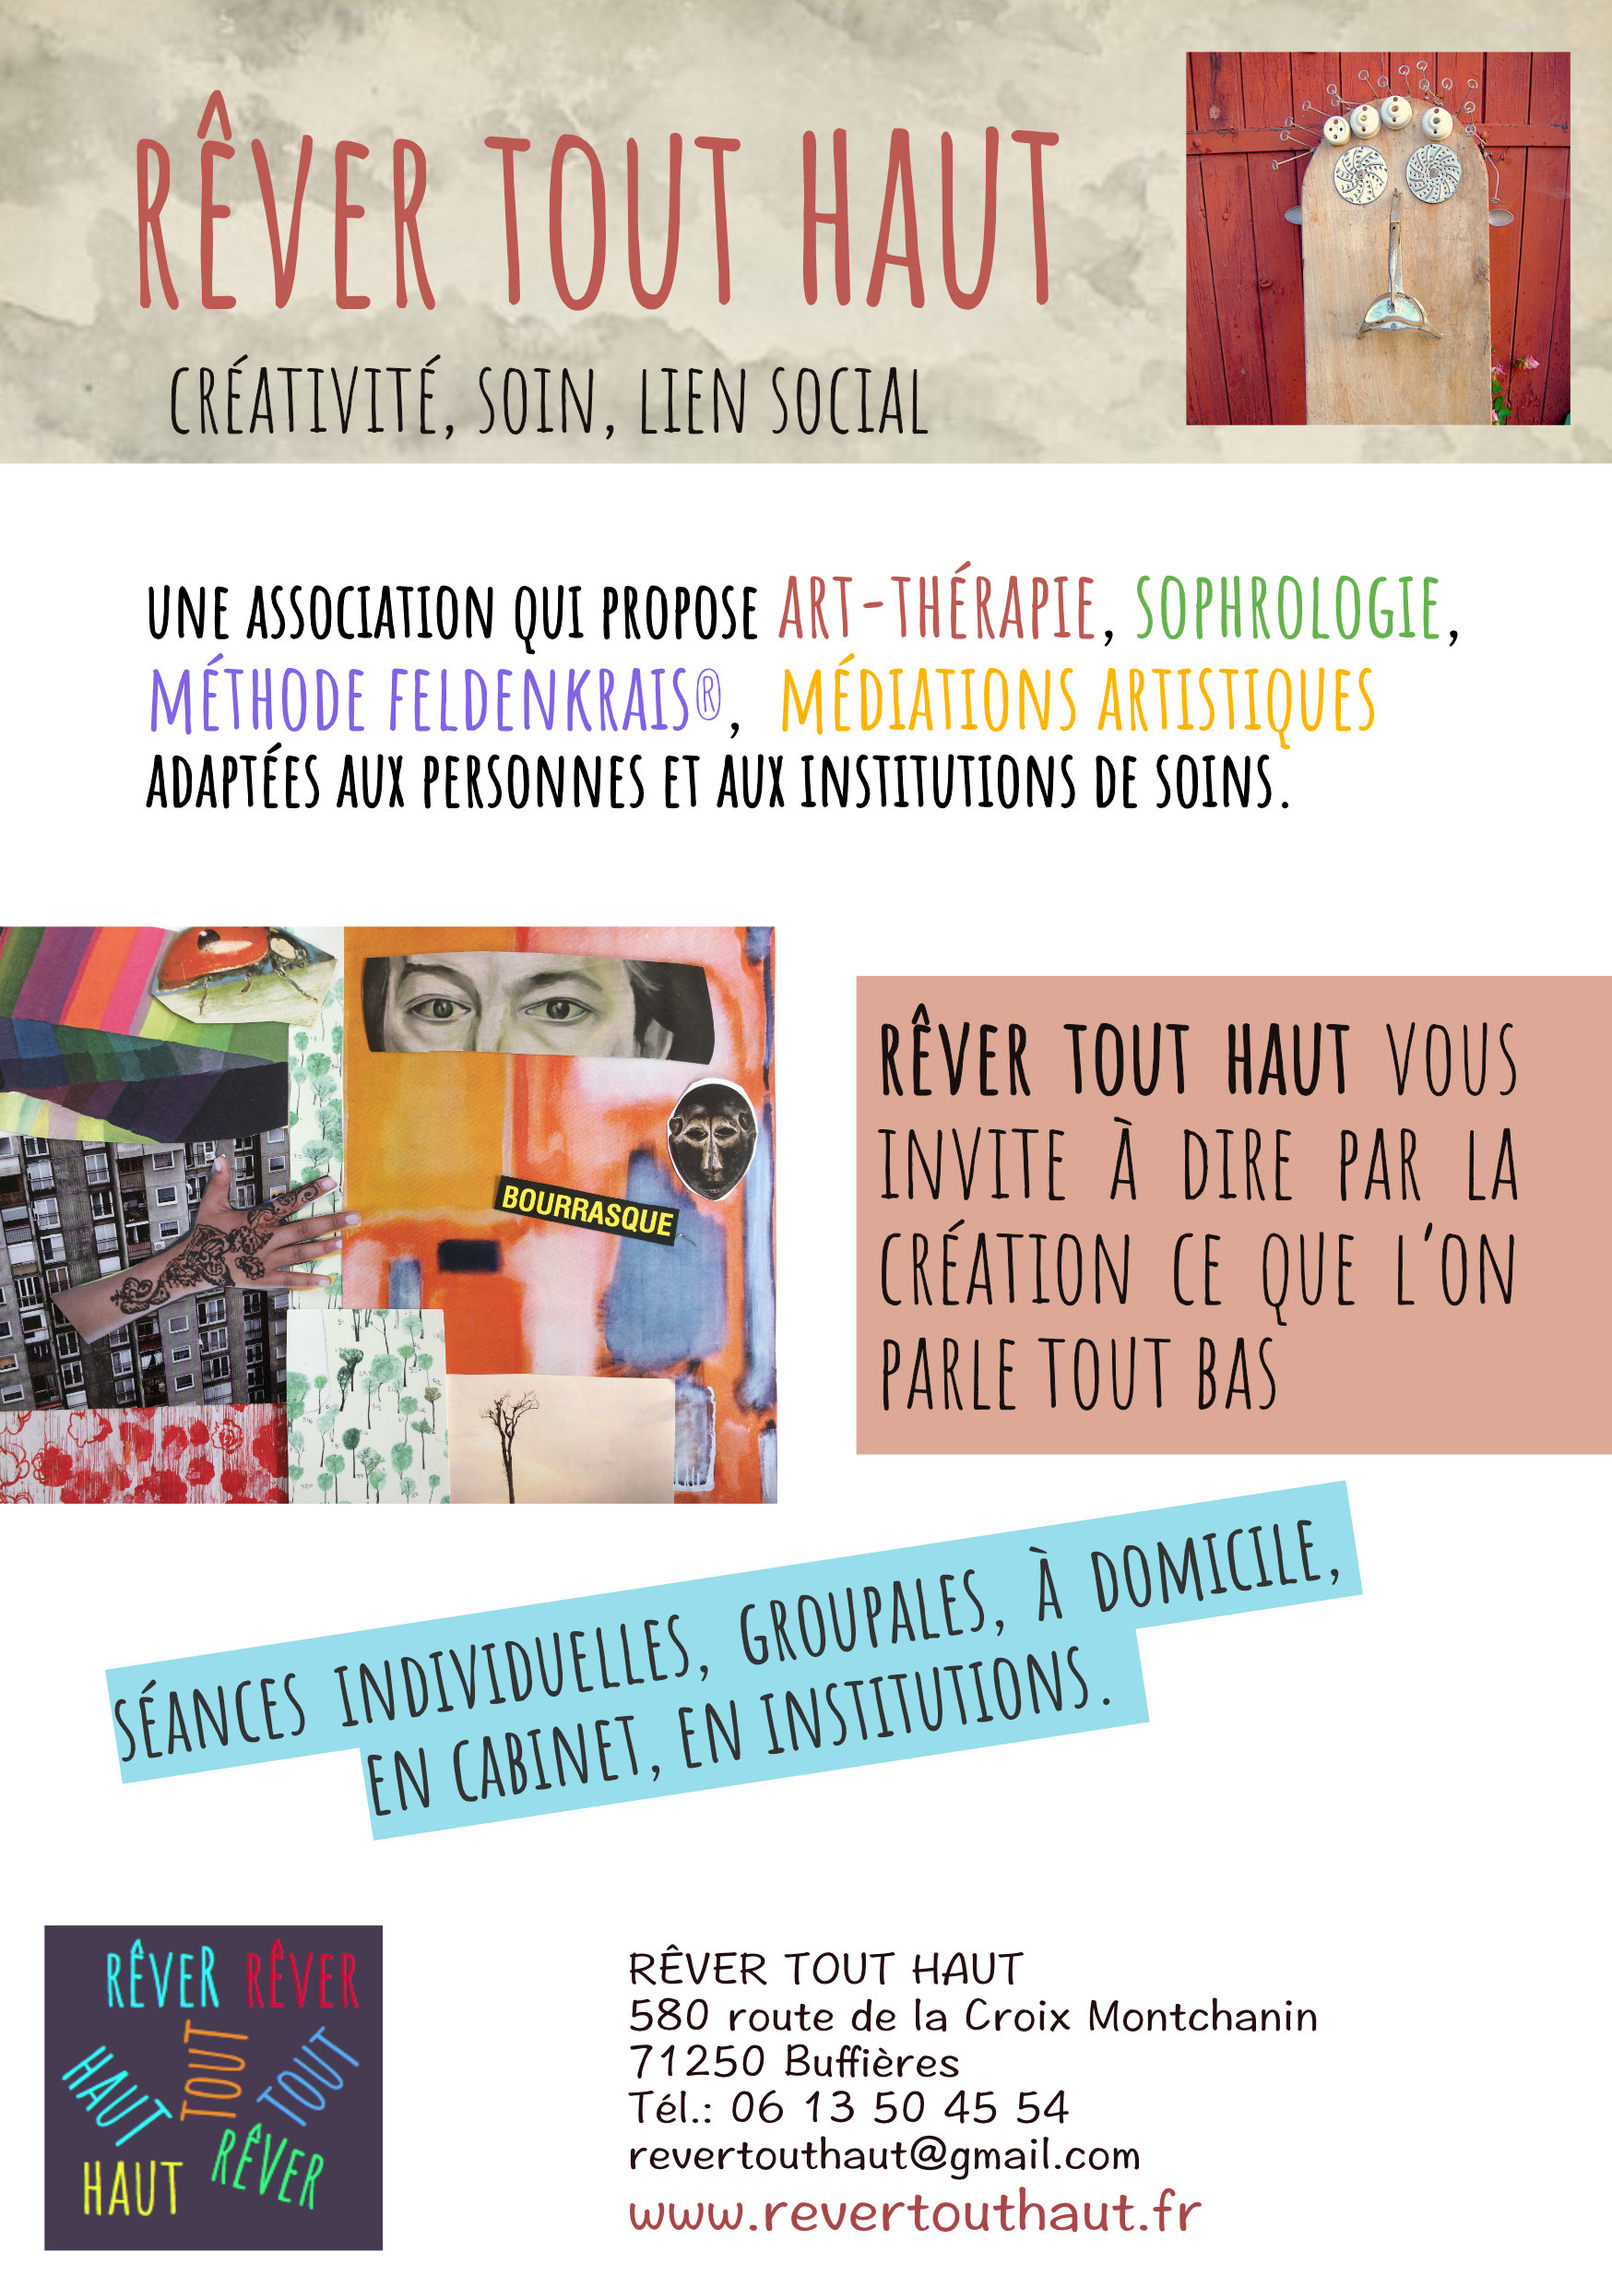
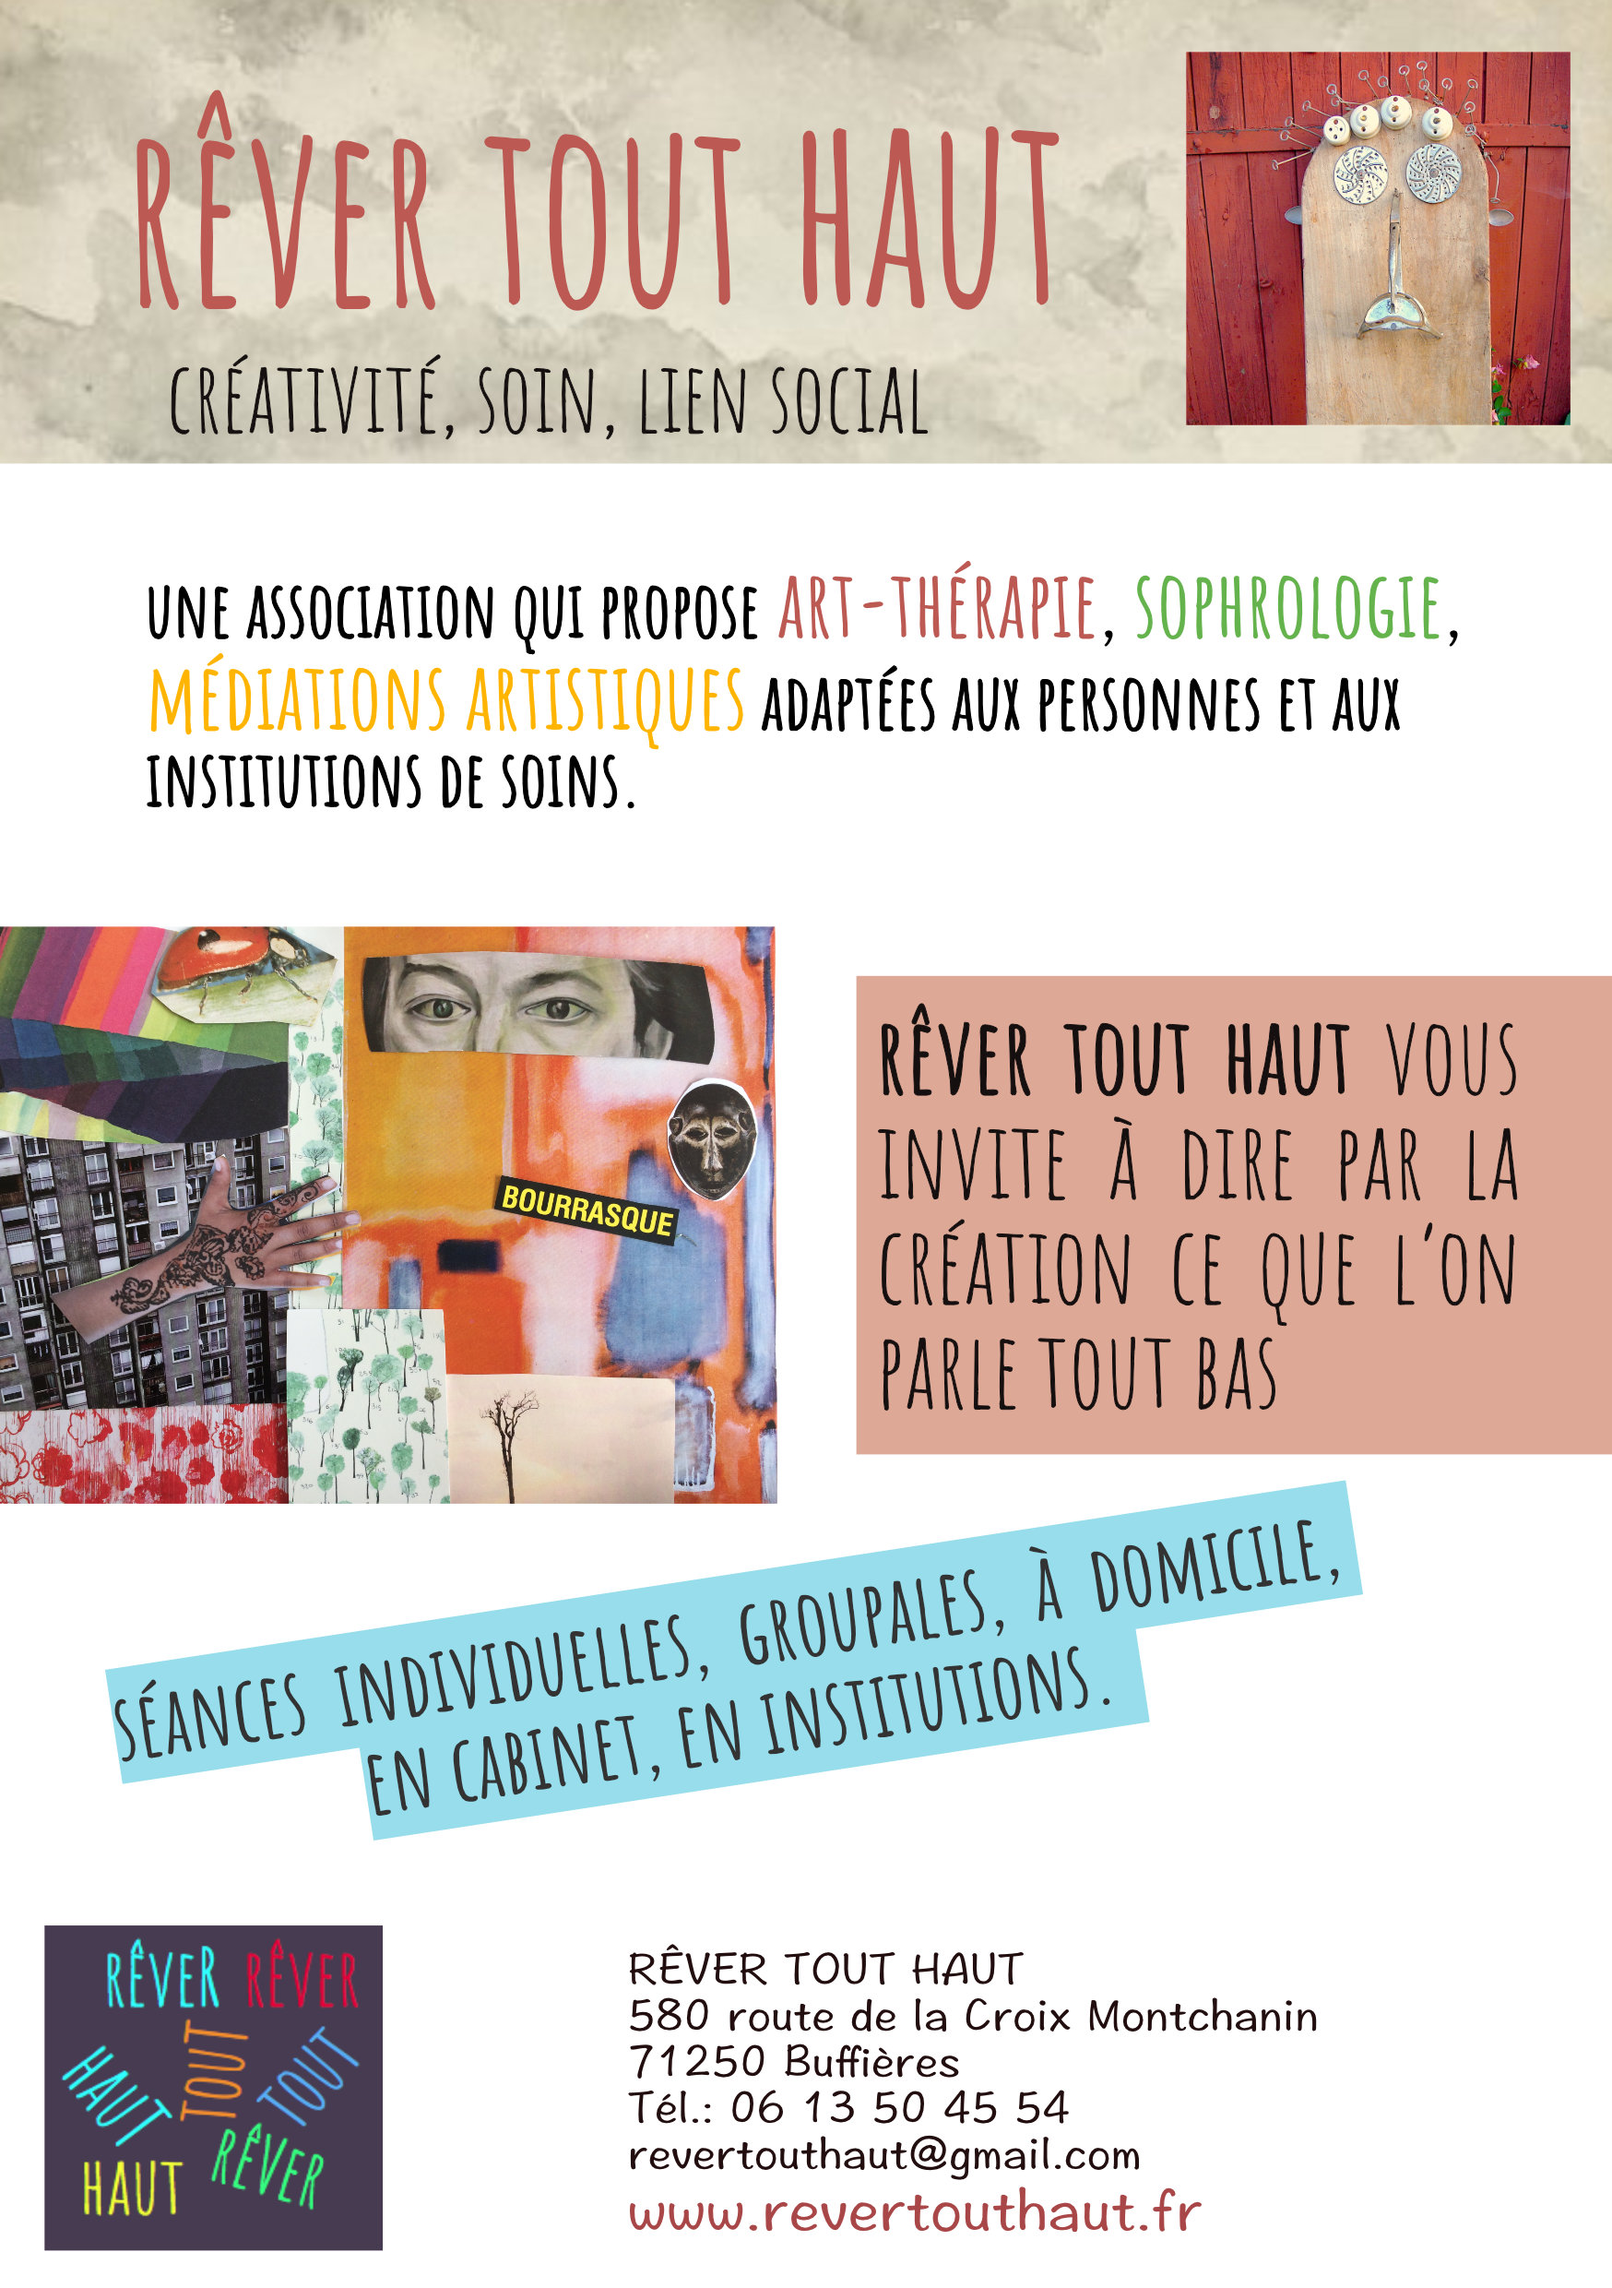
No more feldenkrais. New flyer

Changed region(s): [[0.0927, 0.2794, 0.865, 0.3726]]

diff --git a/_includes/nav-links2.html b/_includes/nav-links2.html
@@ -2,7 +2,6 @@
 
 <li class="color03"><a href="/art-therapie">L'art-thérapie</a></li>
 <li class="color02"><a href="/sophrologie">Sophrologie</a></li>
-<li class="color04"><a href="/feldenkrais">Feldenkrais</a></li>
 <li class="invisible">m</li>
 <li class="grouper">Ateliers&nbsp;:</li>
 <li class="color05 indent"><a href="/ateliers-artistiques">artistiques</a></li>

diff --git a/index.md b/index.md
@@ -1,8 +1,8 @@
 ---
 layout: two-column-banner
-title: Art-thérapie, sophrologie, Feldenkrais, en Saône et Loire (71)
-summary: Rêver tout haut est une association d’art-thérapeutes, sophrologues, praticiens Feldenkrais qui propose des ateliers créatifs, des médiations artistiques et thérapeutiques et des spectacles vivants, adaptés aux personnes et aux institutions, et qui oeuvre à domicile, en cabinet ou en structure médicale et sociale.
-tags: [art-thérapeute,sophrologue,praticien-feldenkrais,médiations-artistiques]
+title: Art-thérapie et sophrologie en Saône et Loire (71)
+summary: Rêver tout haut est une association d’art-thérapeutes, sophrologues, et d'artistes qui propose des ateliers créatifs, des médiations artistiques et thérapeutiques et des spectacles vivants, adaptés aux personnes et aux institutions, et qui oeuvre à domicile, en cabinet ou en structure médicale et sociale.
+tags: [art-thérapeute,sophrologue,médiations-artistiques]
 ---
 <!-- # Créativité, soin, lien social et spectacles vivants
 {:.top-line} -->
@@ -11,7 +11,7 @@ tags: [art-thérapeute,sophrologue,praticien-feldenkrais,médiations-artistiques
 
 
 
-*Rêver tout haut*{:.rever-typog}  est une association d’art-thérapeutes, de sophrologues, et de praticiens Feldenkrais diplomé.es, et d’artistes, installé.es en Saône et Loire, qui propose des médiations artistiques et/ou thérapeutiques adaptées à chacune et chacun : enfants, adolescents, adultes, personnes âgées, toute personne désireuse d’être accompagnée dans un cheminement créatif, ou personnes en difficulté, en situation de handicap, souffrant d’une pathologie, nécessitant un accompagnement créatif et/ou thérapeutique en accord avec ses besoins ou son parcours de soins. *Rêver tout haut*{:.rever-typog} conçoit des médiations et des pratiques autonomes les unes des autres et aussi en continuité et en lien.  
+*Rêver tout haut*{:.rever-typog}  est une association d’art-thérapeutes, de sophrologues, et d’artistes, installé.es en Saône et Loire, qui propose des médiations artistiques et/ou thérapeutiques adaptées à chacune et chacun : enfants, adolescents, adultes, personnes âgées, toute personne désireuse d’être accompagnée dans un cheminement créatif, ou personnes en difficulté, en situation de handicap, souffrant d’une pathologie, nécessitant un accompagnement créatif et/ou thérapeutique en accord avec ses besoins ou son parcours de soins. *Rêver tout haut*{:.rever-typog} conçoit des médiations et des pratiques autonomes les unes des autres et aussi en continuité et en lien.  
 
 *rêver tout haut*{:.rever-typog} vous invite à  dire par la création ce que l’on parle tout bas
 {:.rever-list2}  
@@ -39,7 +39,7 @@ tags: [art-thérapeute,sophrologue,praticien-feldenkrais,médiations-artistiques
 <div class="pairs">
 <div class="five">
 <figure>
-<img src="http://res.cloudinary.com/dnxcesebo/image/upload/c_scale,h_600/v1528881891/rever-flyer-internet-high_uffrwl.jpg">
+<img src="https://res.cloudinary.com/dnxcesebo/image/upload/c_scale,h_600/v1545398279/rever-flyer-internet-border_f3cijy.jpg">
 <figcaption><a href="/rever-flyer-internet-high.jpg">télécharger le flyer</a></figcaption>
 </figure>
 </div>

diff --git a/ateliers-a-domicile.md b/ateliers-a-domicile.md
@@ -5,13 +5,12 @@ summary: Pour permettre aux personnes de recréer du lien social, de se réinscr
 ---
 # Ateliers à domicile
 
-*Rêver tout haut*{:.rever-typog} se déplace et propose <img src="http://res.cloudinary.com/dnxcesebo/image/upload/c_scale,h_400,r_10/v1527692998/lapin_rape_wirg0x.jpg" class="img-right"/> d’aller à votre rencontre chez vous. Prenez contact avec nous pour élaborer ensemble le rythme de séances qui vous convient le mieux et pour organiser une première rencontre. Sous la forme d’un atelier hebdomadaire ou pluri – hebdomadaire, nous proposons un parcours à adapter à chacun, avec plusieurs pratiques : Art-thérapie, sophrologie, Feldenkrais, musique et chant, raconter et se raconter par l’écriture ou la photographie. 
+*Rêver tout haut*{:.rever-typog} se déplace et propose <img src="http://res.cloudinary.com/dnxcesebo/image/upload/c_scale,h_400,r_10/v1527692998/lapin_rape_wirg0x.jpg" class="img-right"/> d’aller à votre rencontre chez vous. Prenez contact avec nous pour élaborer ensemble le rythme de séances qui vous convient le mieux et pour organiser une première rencontre. Sous la forme d’un atelier hebdomadaire ou pluri – hebdomadaire, nous proposons un parcours à adapter à chacun, avec plusieurs pratiques : Art-thérapie, sophrologie, musique et chant, raconter et se raconter par l’écriture ou la photographie. 
 
-## Sortir de l’isolement 
-<img src="http://res.cloudinary.com/dnxcesebo/image/upload/c_scale,h_400,r_10/v1527693006/pendule_Stéphanie_m95o4a.jpg" class="img"/>Pour sortir de l'isolement, pour retrouver du lien, pour renouer avec le réel avec ces séances ritualisées sous la forme d’un ou plusieurs rendez-vous par semaine. Si vous avez du mal à vous déplacer ou si vous avez envie de redonner du sens à l’investissement de votre lieu de vie, et quelle que soit votre problématique, nous venons à vous. 
+## Sortir de l’isolement
+<img src="http://res.cloudinary.com/dnxcesebo/image/upload/c_scale,h_400,r_10/v1527693006/pendule_Stéphanie_m95o4a.jpg" class="img"/>Pour sortir de l'isolement, pour retrouver du lien, pour renouer avec le réel avec ces séances ritualisées sous la forme d’un ou plusieurs rendez-vous par semaine. Si vous avez du mal à vous déplacer ou si vous avez envie de redonner du sens à l’investissement de votre lieu de vie, et quelle que soit votre problématique, nous venons à vous.
 &nbsp;
 
 &nbsp;
 ## En équipe pluridisciplinaire
 Ce travail en équipe pluridisciplinaire contribue à tisser du lien, à renforcer les bénéfices des différentes pratiques, à enrichir votre cheminement de tout ce que vous pouvez découvrir au fil des séances. Les différents intervenants pensent leurs séances ensemble et comme un tout pour vous permettre d’avancer au mieux. Nous vous proposons un parcours dans les différentes pratiques, à un rythme qui reste à déterminer avec vous en fonction de vos besoins et de vos possibilités.  
-

diff --git a/equipe.md b/equipe.md
@@ -7,10 +7,6 @@ summary: Valérie Gaudissart, Cassandre Lorimy-Jackson, Isis-Philippe-Jenon, Mor
 
 <li class="color03"><a href="valerie">Valérie Gaudissart</a></li>
 
-<li class="color04"><a href="cassandre">Cassandre Lorimy Jackson</a></li>
-
 <li class="color02"><a href="isis">Isis Philippe-Janon</a></li>
 
 <li class="color11"><a href="morton">Morton Potash</a></li>
-
-
